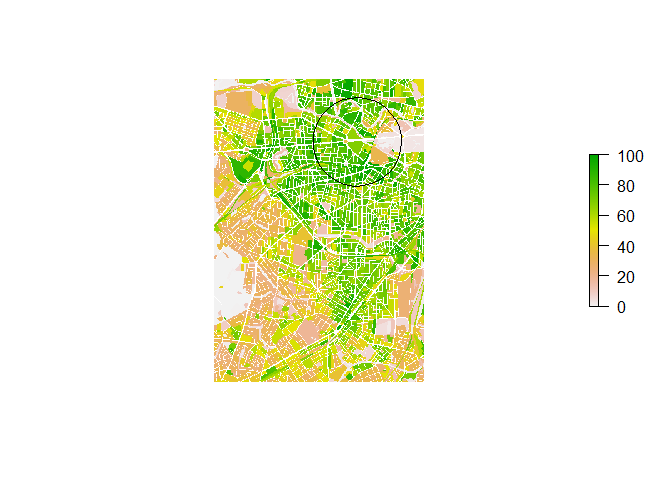
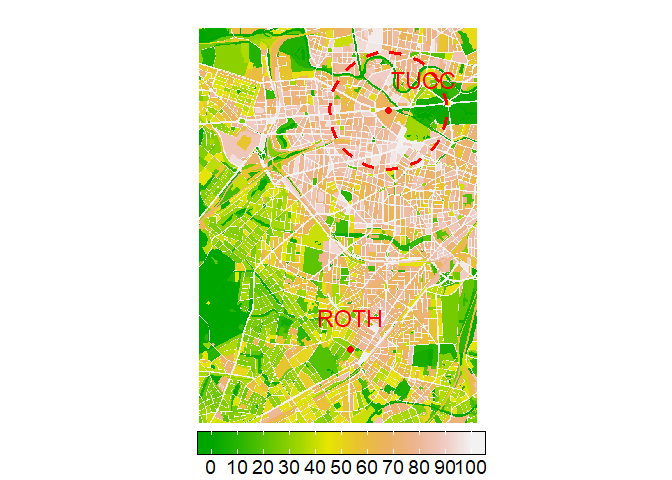
viz G

diff --git a/2_Data_science/2.2_visualisation_maps.md b/2_Data_science/2.2_visualisation_maps.md
@@ -24,7 +24,7 @@ library(RColorBrewer)
 library(geobuffer) }) # geobuffer_pts
 ```
 
-functions to import maps from the atlas
+**Functions to import maps from the atla**
 
 ``` r
 get_X_Y_coordinates <- function(x) {
@@ -67,27 +67,17 @@ sf_save <- function(z, fname) {
 }
 ```
 
-funtion to resample
+import the Impervious map - ekd102
 
 ``` r
-resample_to_footprint = function(r, footprint_rast) {
-  r_new = raster::crop(x=r, y=extent(footprint_rast))  # first crop 
-  r_new = raster::projectRaster(r_new, footprint_rast) # reproject
-  return(r_new)
-}
-```
-
-import the Imprevious map - ekd102
-
-``` r
-###################################################################
-# 01.02 Impervious Soil Coverage (Sealing of Soil Surface) (Edition 2017)
-###################################################################
-#   The real use of the built-up areas, the existing green and open space,
-# the urban structure, the sealing and the types of surface. 
-# Spatial reference block / partial block map ISU5 (Information System
-# City and Environment) as of December 31, 2015.
-####################################################################
+###########################################################################
+# 01.02 Impervious Soil Coverage (Sealing of Soil Surface) (Edition 2017) #
+###########################################################################
+# The real use of the built-up areas, the existing green and open space, #
+# the urban structure, the sealing and the types of surface.              #
+# Spatial reference block / partial block map ISU5 (Information System    #
+# City and Environment) as of December 31, 2015.                          #
+###########################################################################
 ```
 
 ``` r
@@ -98,13 +88,13 @@ impervious_map <- sf_fisbroker("https://fbinter.stadt-berlin.de/fb/wfs/data/sens
 
 ``` r
 impervious_map <- impervious_map %>%
-  dplyr::mutate(RAUMID = stringr::str_sub(gml_id, 12, 19)) %>%
-  dplyr::select(gml_id, RAUMID, everything()) %>%
-  dplyr::arrange(RAUMID)
+  mutate(RAUMID = stringr::str_sub(gml_id, 12, 19)) %>%
+  select(gml_id, RAUMID, everything()) %>%
+  arrange(RAUMID)
 ```
 
 ``` r
-dplyr::glimpse(impervious_map)
+glimpse(impervious_map)
 ```
 
     ## Rows: 25,352
@@ -129,106 +119,24 @@ dplyr::glimpse(impervious_map)
     ## $ GRZ_NAME   <chr> NA, NA, NA, NA, NA, NA, NA, "Park / Grünfläche", NA, NA, NA~
     ## $ geometry   <MULTIPOLYGON [°]> MULTIPOLYGON (((13.3683 52...., MULTIPOLYGON (~
 
-sf\_save(impervious\_map, “impervious\_map”)
-
-``` r
-summary(impervious_map)
-```
-
-    ##     gml_id             RAUMID             BEZIRK            WOZ_NAME        
-    ##  Length:25352       Length:25352       Length:25352       Length:25352      
-    ##  Class :character   Class :character   Class :character   Class :character  
-    ##  Mode  :character   Mode  :character   Mode  :character   Mode  :character  
-    ##                                                                             
-    ##                                                                             
-    ##                                                                             
-    ##                                                                             
-    ##   STSTRNAME           TYPKLAR              FLALLE          STR_FLGES    
-    ##  Length:25352       Length:25352       Min.   :     55   Min.   :    0  
-    ##  Class :character   Class :character   1st Qu.:   9930   1st Qu.: 1438  
-    ##  Mode  :character   Mode  :character   Median :  17812   Median : 3300  
-    ##                                        Mean   :  31329   Mean   : 3929  
-    ##                                        3rd Qu.:  31104   3rd Qu.: 5406  
-    ##                                        Max.   :4233009   Max.   :78888  
-    ##                                                          NA's   :697    
-    ##        VG              VG_0            PROBAU          PROVGNEU     
-    ##  Min.   :  0.00   Min.   :  0.00   Min.   :  0.00   Min.   :  0.00  
-    ##  1st Qu.: 13.16   1st Qu.:  8.45   1st Qu.:  0.19   1st Qu.:  6.10  
-    ##  Median : 33.83   Median : 33.16   Median : 18.48   Median : 14.29  
-    ##  Mean   : 35.97   Mean   : 34.75   Mean   : 19.31   Mean   : 16.66  
-    ##  3rd Qu.: 54.09   3rd Qu.: 52.60   3rd Qu.: 27.11   3rd Qu.: 23.09  
-    ##  Max.   :100.00   Max.   :100.00   Max.   :100.00   Max.   :100.00  
-    ##                                                                     
-    ##    PROVGNEU_0          KL1             KL2             KL3        
-    ##  Min.   :  0.00   Min.   : 0.00   Min.   : 0.00   Min.   : 0.000  
-    ##  1st Qu.:  4.26   1st Qu.:15.00   1st Qu.:20.00   1st Qu.: 1.000  
-    ##  Median : 13.56   Median :20.00   Median :37.00   Median : 2.000  
-    ##  Mean   : 15.44   Mean   :26.34   Mean   :39.31   Mean   : 4.859  
-    ##  3rd Qu.: 22.15   3rd Qu.:42.00   3rd Qu.:65.00   3rd Qu.: 5.000  
-    ##  Max.   :100.00   Max.   :85.00   Max.   :74.00   Max.   :32.000  
-    ##                   NA's   :697     NA's   :697     NA's   :697     
-    ##       KL4          GRZ_NAME                  geometry    
-    ##  Min.   : 0.00   Length:25352       MULTIPOLYGON :25352  
-    ##  1st Qu.: 6.00   Class :character   epsg:4326    :    0  
-    ##  Median :13.00   Mode  :character   +proj=long...:    0  
-    ##  Mean   :29.39                                           
-    ##  3rd Qu.:45.00                                           
-    ##  Max.   :90.00                                           
-    ##  NA's   :697
-
-``` r
-str(filter(impervious_map, FLALLE==160724)) #key TUCC
-```
-
-    ## sf [1 x 19] (S3: sf/tbl_df/tbl/data.frame)
-    ##  $ gml_id    : chr "sach_nutz2015_nutzsa.0700231951000000"
-    ##  $ RAUMID    : chr "15_nutzs"
-    ##  $ BEZIRK    : chr "Charlottenburg-Wilmersdorf"
-    ##  $ WOZ_NAME  : chr "Gemeinbedarfs- und Sondernutzung"
-    ##  $ STSTRNAME : chr "Bebauung mit überwiegender Nutzung durch Gemeinbedarf und Sondernutzung, Verkehrsflächen ohne Straßenland oder Baustellen"
-    ##  $ TYPKLAR   : chr "Hochschule und Forschung"
-    ##  $ FLALLE    : int 160724
-    ##  $ STR_FLGES : int 38266
-    ##  $ VG        : num 68.9
-    ##  $ VG_0      : num 68.9
-    ##  $ PROBAU    : num 47.5
-    ##  $ PROVGNEU  : num 21.4
-    ##  $ PROVGNEU_0: num 21.4
-    ##  $ KL1       : int 15
-    ##  $ KL2       : int 70
-    ##  $ KL3       : int 12
-    ##  $ KL4       : int 3
-    ##  $ GRZ_NAME  : chr NA
-    ##  $ geometry  :sfc_MULTIPOLYGON of length 1; first list element: List of 1
-    ##   ..$ :List of 1
-    ##   .. ..$ : num [1:33, 1:2] 13.3 13.3 13.3 13.3 13.3 ...
-    ##   ..- attr(*, "class")= chr [1:3] "XY" "MULTIPOLYGON" "sfg"
-    ##  - attr(*, "sf_column")= chr "geometry"
-    ##  - attr(*, "agr")= Factor w/ 3 levels "constant","aggregate",..: NA NA NA NA NA NA NA NA NA NA ...
-    ##   ..- attr(*, "names")= chr [1:18] "gml_id" "RAUMID" "BEZIRK" "WOZ_NAME" ...
-
-``` r
-#$ VG        : num 68.9 = Sealing, track ballast is considered sealed [% of area size]
-#$ VG_0      : num 68.9 = Sealing, track ballast is considered unsealed [% of area size]
-#$ PROBAU    : num 47.5 = Built-up sealed area [% of area size]
-#$ PROVGNEU  : num 21.4 = Sealed area undeveloped, track ballast is considered sealed [% of area size]
-#$ PROVGNEU_0: num 21.4 = Unbuilt sealed area, track ballast is considered unsealed [% of area size]
-#$ KL1       : int 15   = Surface type 1 [% of undeveloped sealed area]
-#$ KL2       : int 70   = Surface type 2 [% of undeveloped sealed area]
-#$ KL3       : int 12   = Surface type 3 [% of undeveloped sealed area]
-#$ KL4       : int 3    = Surface type 4 [% of undeveloped sealed area]
-```
+VG Sealing, track ballast is considered sealed (% of area size) VG\_0
+Sealing, track ballast is considered unsealed (% of area size) PROBAU
+Built-up sealed area (% of area size) PROVGNEU Sealed area undeveloped,
+track ballast is considered sealed (% of area size) PROVGNEU\_0 Unbuilt
+sealed area, track ballast is considered unsealed (% of area size)
 
 ``` r
 impervious_map <- st_transform(impervious_map, crs("+proj=utm +zone=33 +datum=WGS84 +units=m +no_defs"))
 ```
 
-create an empty raster of 10m resolution
+Create an empty raster of 10m resolution
 
 ``` r
 map_raster <- raster(xmn=370000,xmx=415741,ymn=5799519,ymx=5837199, 
                res=10,crs=crs("+proj=utm +zone=33 +datum=WGS84 +units=m +no_defs"))
 ```
+
+Rasterize the polygons
 
 ``` r
 raster_imprevious <- raster::stack(
@@ -251,7 +159,7 @@ names(raster_imprevious) <- c("Impervious","Impervious_with_str",
 plot(raster_imprevious[[1]], col=terrain.colors(10))
 ```
 
-![](2.2_visualisation_maps_files/figure-gfm/unnamed-chunk-14-1.png)<!-- -->
+![](2.2_visualisation_maps_files/figure-gfm/unnamed-chunk-12-1.png)<!-- -->
 
 ``` r
 imprevious_zoom <- crop(raster_imprevious, extent(381673,388803,5811189,5821467))
@@ -261,12 +169,12 @@ EC Tower and DWD stations points
 
 ``` r
 points <- data.frame(
-  x = c(385566.5, 384597.4, 386525.1,385368.3),
-  y = c(5813229, 5812858, 5819332,5825159),
+  x = c(385566.5, 384597.4, 386525.1, 385368.3),
+  y = c(5813229, 5812858, 5819332, 5825159),
   city = c("ROTH", "DWD_Dahlem", "TUCC", "DWD_Tegel"))
 ```
 
-create a buffer around the tower
+Create a buffer around the tower
 
 ``` r
 pts_buf_1500m <- geobuffer_pts(xy = data.frame(lon = 13.32785,  
@@ -291,13 +199,6 @@ pts_buf_1500m <- spTransform(pts_buf_1500m, CRS("+proj=utm +zone=33 +datum=WGS84
 ```
 
 ``` r
-plot(imprevious_zoom$Impervious,axes = F, box = F) #,horizontal=TRUE,legend.args=list(text='impervious (%)')
-plot(pts_buf_1500m, add = T, lwd = .5, fg = 2)  
-```
-
-![](2.2_visualisation_maps_files/figure-gfm/unnamed-chunk-19-1.png)<!-- -->
-
-``` r
 load(url("https://userpage.fu-berlin.de/soga/300/30100_data_sets/berlin_district.RData"))
 st_geometry(berlin.sf)
 ```
@@ -314,41 +215,42 @@ st_geometry(berlin.sf)
 berlin.Border <- st_transform(berlin.sf, crs(raster_imprevious))
 ```
 
-Vegetation Height Berlin
+Fraction of Unbuild areas
 
 ``` r
 ggplot() +
   layer_spatial(raster_imprevious$Unbuilt) + 
-  layer_spatial(berlin.sf, fill="transparent", size=1.2) + 
-  #layer_spatial(pts_buf_1500m, fill="transparent", col="red", size=1.2, linetype="dashed") + 
-  geom_spatial_point(aes(x=points$x[c(1,3)], y=points$y[c(1,3)]), 
-                     crs =crs(raster_imprevious), size=2, 
-                     col=c("black","black")) +
-  geom_spatial_label(aes(x=points$x[c(1,3)], y=points$y[c(1,3)],label=points$city[c(1,3)]),
+  layer_spatial(berlin.sf, fill = "transparent", size = 1.2) + 
+  geom_spatial_point(aes(x = points$x[c(1,3)], y = points$y[c(1,3)]),
+                     crs = crs(raster_imprevious), size = 2,
+                     col = c("black","black")) +
+  geom_spatial_label(aes(x = points$x[c(1,3)], y = points$y[c(1,3)],
+                         label = points$city[c(1,3)]),
                      crs = crs(raster_imprevious),
-                     fill="transparent", col=c("black","black"), 
-                     vjust=c(-0.5,-0.5),
-                     hjust=c(0.5, .05), label.size= 0, size=6) +
-  guides(linetype = guide_legend(title=NULL, order = 2), 
-         color = guide_legend(order=1)) +
-  scale_fill_gradientn(breaks=seq(0,30,5),limits=c(0,30),
-                       colors=brewer.pal('Greens', n=9), name="",na.value = NA,
-                       guide =guide_colorbar(direction = "horizontal",
+                     fill = "transparent", col = c("black","black"),
+                     vjust = c(-0.5, -0.5),
+                     hjust = c(0.5, 0.5), label.size = 0, size = 6) +
+  guides(linetype = guide_legend(title = NULL, order = 2), 
+         color = guide_legend(order = 1)) +
+  scale_fill_gradientn(breaks = seq(0, 30, 5),limits = c(0,30),
+                       colors = rev(brewer.pal('Greens', n = 9)), 
+                       name = " ", na.value = NA,
+                       guide = guide_colorbar(direction = "horizontal",
                                              label.position = "bottom",
-                                             title.vjust=9, label.vjust=9,
+                                             title.vjust = 9, label.vjust = 9,
                                              frame.colour = "black",
                                              frame.linewidth = 0.5,
                                              frame.linetype = 1,
                                              title.position = "left",
-                                             barwidth=30,barheight=1.2,nbin=30,
-                                             label.theme=element_text(angle=0,size=20))) +
+                                             barwidth = 25, barheight = 1.2, nbin = 30,
+                                             label.theme = element_text(angle = 0, size = 14))) +
   annotation_scale(location = "bl", height = unit(0.4, "cm"),
-                   pad_x=unit(1.75,"cm"), pad_y=unit(2.5,"cm"),
+                   pad_x = unit(1.5,"cm"), pad_y = unit(1.2,"cm"),
                    text_pad = unit(0.25, "cm"),
                    text_cex = 1.5) +
   annotation_north_arrow(location = "tr", which_north = "true",
-                         height = unit(2, "cm"),width = unit(2, "cm"),
-                         pad_x=unit(3.5,"cm"), pad_y=unit(2.5,"cm")) +
+                         height = unit(2, "cm"), width = unit(2, "cm"),
+                         pad_x=unit(1,"cm"), pad_y=unit(1.5,"cm")) +
   theme(axis.line=element_blank(),
         axis.text.x=element_blank(),
         axis.text.y=element_blank(),
@@ -364,36 +266,37 @@ ggplot() +
 
     ## Warning: Removed 10204901 rows containing missing values (geom_raster).
 
-![](2.2_visualisation_maps_files/figure-gfm/unnamed-chunk-21-1.png)<!-- -->
+![](2.2_visualisation_maps_files/figure-gfm/unnamed-chunk-18-1.png)<!-- -->
 
-impervious map
+Impervious map
 
 ``` r
 ggplot() +
   layer_spatial(imprevious_zoom$Impervious_with_str) + 
-  layer_spatial(pts_buf_1500m, fill="transparent", col="red", linetype="dashed", size=1.2) + 
-  geom_spatial_point(aes(x = points[3,1], y=points[3,2]), 
-                     crs =crs(imprevious_zoom), size = 2, 
-                     col=c("red")) +
-  geom_spatial_label(aes(x=points[3,1], y=points[3,2],
-                         label=points[3,3]),
-                     crs = crs(imprevious_zoom),
-                     fill="transparent", col=c("red"), 
-                     vjust=c(-0.5),
-                     hjust=c(0.3), label.size= 0, size=6) +
-  guides(linetype = guide_legend(title=NULL, order = 2), 
-         color = guide_legend(order=1)) +
-  scale_fill_gradientn(breaks=seq(0,100,10),limits=c(0,100),
-                       colors=terrain.colors(10), name="", na.value = 0,
-                       guide =guide_colorbar(direction = "horizontal",
+  layer_spatial(pts_buf_1500m, fill = "transparent", col = "red", 
+                linetype = "dashed", size = 1.2) + 
+  geom_spatial_point(aes(x = points$x[c(1,3)], y = points$y[c(1,3)]), 
+                     crs = crs(raster_imprevious), size = 2, 
+                     col = c("red","red")) +
+  geom_spatial_label(aes(x = points$x[c(1,3)], y = points$y[c(1,3)],
+                         label = points$city[c(1,3)]),
+                     crs = crs(raster_imprevious),
+                     fill = "transparent", col = c("red","red"), 
+                     vjust = c(-0.5,-0.5),
+                     hjust = c(0.5, .05), label.size = 0, size = 6) +
+  guides(linetype = guide_legend(title = NULL, order = 2), 
+         color = guide_legend(order = 1)) +
+  scale_fill_gradientn(breaks = seq(0,100,10), limits = c(0,100),
+                       colors = terrain.colors(10), name = "", na.value = 0,
+                       guide = guide_colorbar(direction = "horizontal",
                                              label.position = "bottom",
-                                             label.vjust=-2,
+                                             label.vjust = -2,
                                              frame.colour = "black",
                                              frame.linewidth = 0.5,
                                              frame.linetype = 1,
                                              #title.position = "left",
-                                             barwidth=21,barheight=1.2,nbin=10,
-                                             label.theme=element_text(angle=0,size=18))) +
+                                             barwidth=15, barheight=1.2, nbin=10,
+                                             label.theme=element_text(angle=0,size=14))) +
   theme(axis.line=element_blank(),
         axis.text.x=element_blank(),
         axis.text.y=element_blank(),
@@ -407,4 +310,4 @@ ggplot() +
         panel.background = element_rect("white"))
 ```
 
-![](2.2_visualisation_maps_files/figure-gfm/unnamed-chunk-22-1.png)<!-- -->
+![](2.2_visualisation_maps_files/figure-gfm/unnamed-chunk-19-1.png)<!-- -->
